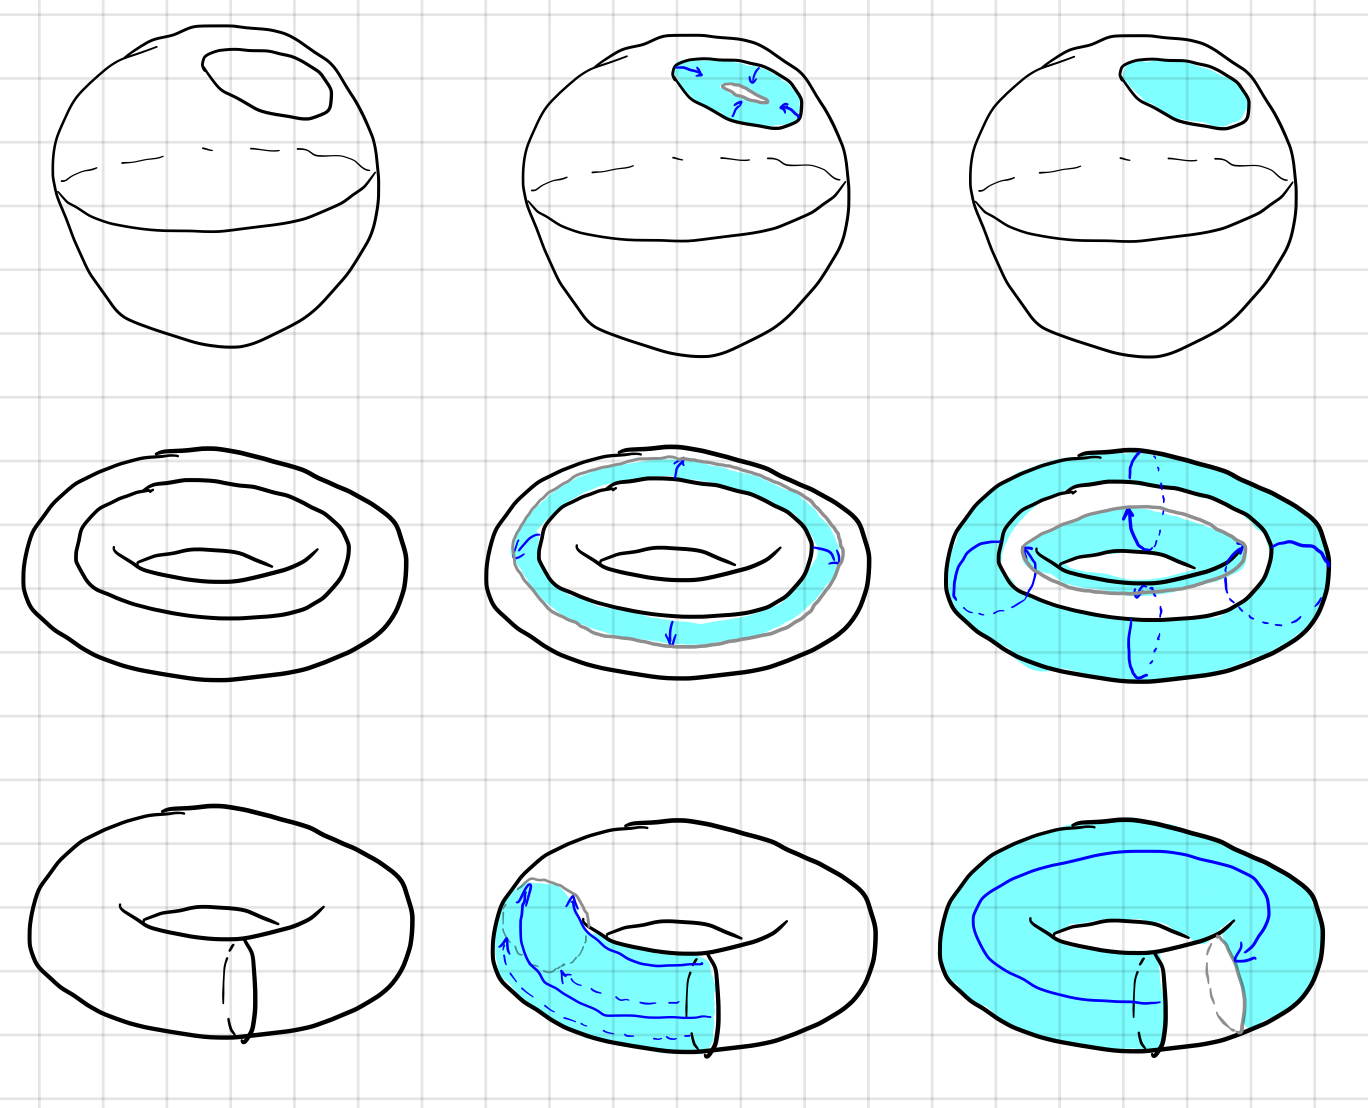
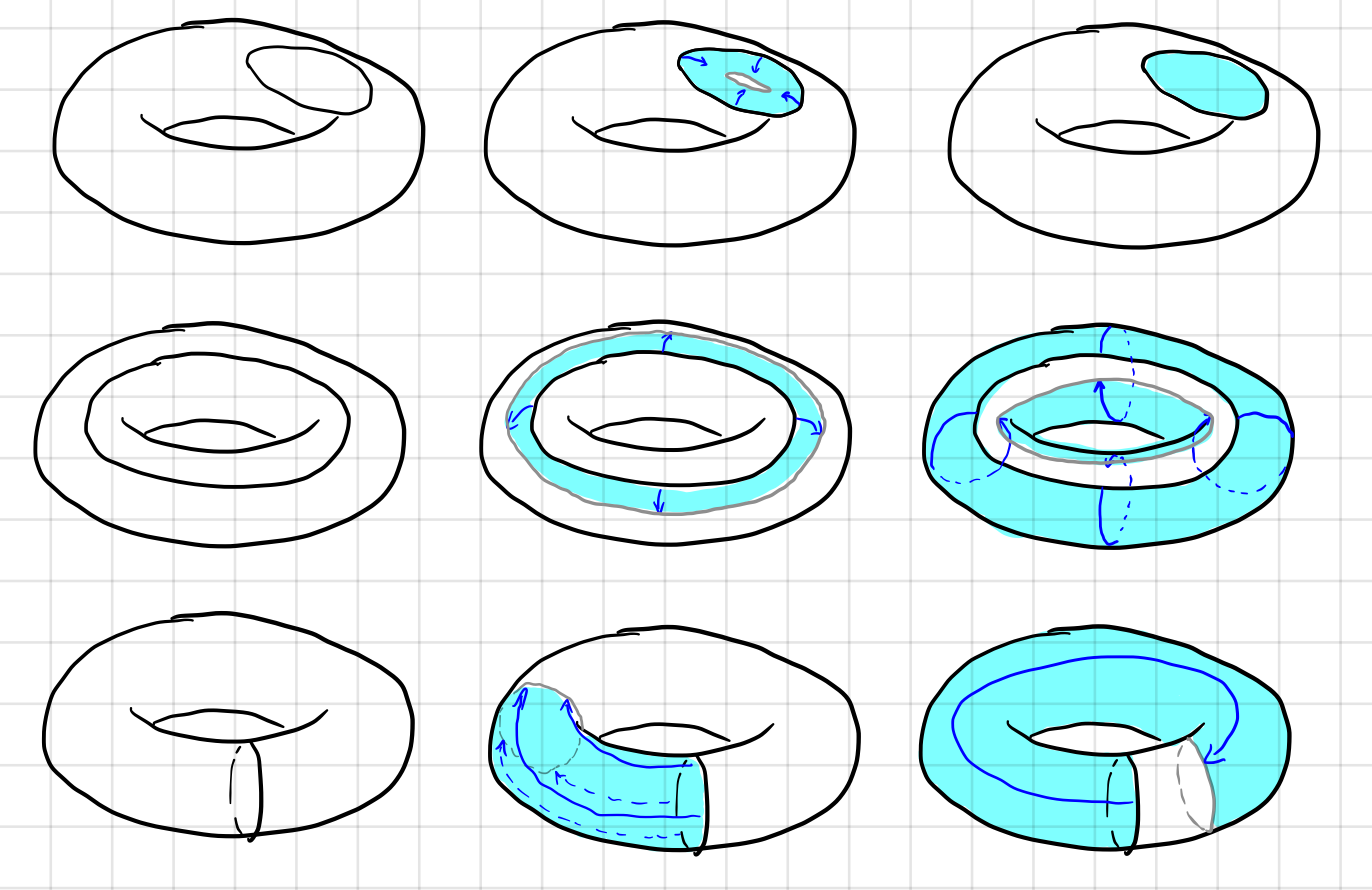
update homology

diff --git a/_posts/2018-11-01-Introduction-to-Homology/2018-11-01-Introduction-to-Homology.md b/_posts/2018-11-01-Introduction-to-Homology/2018-11-01-Introduction-to-Homology.md
@@ -328,32 +328,23 @@ It's natural to ask, are all cycles are not necessarily boundaries? A trivial ex
 
 <img src="https://raw.githubusercontent.com/yk-liu/yk-liu.github.io/master/_posts/2018-11-01-Introduction-to-Homology/assets/CycleAndBoundary.png" width="60%">
 
-Now let's study this cycle on the torus. Is it a cycle? Yes. But is it a boundary? One way to see if a cycle is a boundary is to expand the "territory" of the cycle and see if you can contract to a point.
+Now let's study circles on the torus. Are those cycles? Yes. But are those boundaries? One way to see if a cycle is a boundary is to expand the "territory" of the cycle and see if you can contract to a point. You will immediately see the lower two types of cycles are not boundaries of anything. 
 
 <img src="https://raw.githubusercontent.com/yk-liu/yk-liu.github.io/master/_posts/2018-11-01-Introduction-to-Homology/assets/CycleAndHole.png" width="60%">
 
-
-
-
-
-This is actually the motivation of Homology group. 
-
- Less trivial examples can be found in spaces that are not as "ambient" as $\R^3$. This loop on torus is not a boundary of 
-
-
-
-
+This is actually the motivation of Homology group. The existence of a cycle that is not a boundary indicates that there is at least one hole on the surface. More information can also be derived using the homology group.
 
 # Homology Group
 
-The chain group $C_r(K)$, cycle group $Z _ r(K)$ and boundary group $B _ r(K)$ of simplicial complex $K$ are obviously not topological invariant. We already know that all boundaries are cycles, but the reverse is not true. Those cycles that are not boundaries are 
+The chain group $C_r(K)$, cycle group $Z _ r(K)$ and boundary group $B _ r(K)$ of simplicial complex $K$ are obviously not topological invariant. We already know that all boundaries are cycles, but the reverse is not true. Those cycles that are not boundaries are represented by a "division", i.e., a quotient group. Formally, the Homology group $H _ r(K)$ is defined as 
 
-The Homology group $H _ r(K)$ is defined as 
 $$
 H _ r(K)\dfdas Z _ r(K)/B _ r(K).
 $$
 
-The notation involves quotient group and equivalent classes. If you are not familiar with those concepts, this [reference](https://math.stackexchange.com/questions/838797/quotient-spaces-and-quotient-groups-equivalence-classes-and-cosets) might help.
+ In laymen's term, Homology group $H _ r(K)$ is the cycles ($Z _ r (K)$) that are not ($ / $) boundaries ($B _ r (K)$). 
+
+> The notation involves quotient group and equivalent classes. If you are not familiar with those concepts, this [reference](https://math.stackexchange.com/questions/838797/quotient-spaces-and-quotient-groups-equivalence-classes-and-cosets) might help.
 
 The group can thus be divided as equivalent classes of cycles
 
@@ -371,7 +362,7 @@ If $z$ and $z^\prime$ belong to the same equivalent class, they are called **hom
 
 <img src="https://raw.githubusercontent.com/yk-liu/yk-liu.github.io/master/_posts/2018-11-01-Introduction-to-Homology/assets/Homologous.png" width="60%">
 
-Why
+> Like the discussion in section [`Cycles and Holes`](#cycles-and-holes), on the right, $z-z^\prime$ is the boundary of a square and an triangle in $\R^3$, but it's not a boundary on the torus.
 
 ## 1-D Example
 
